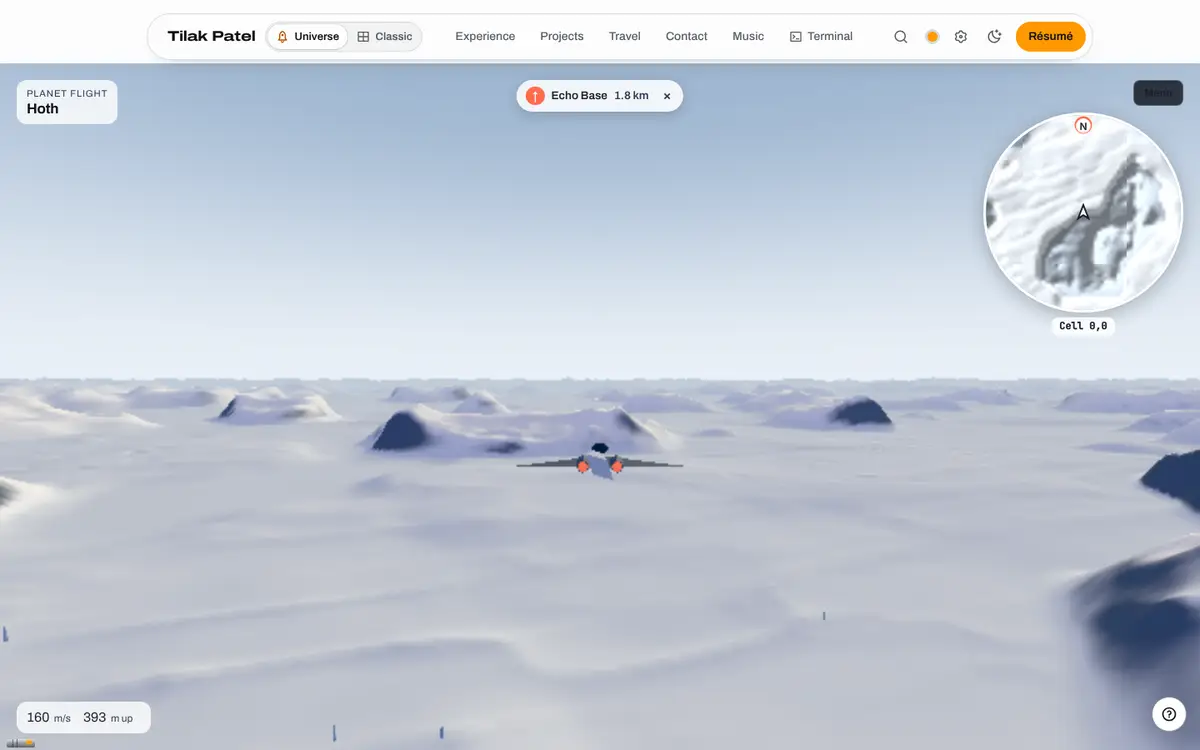
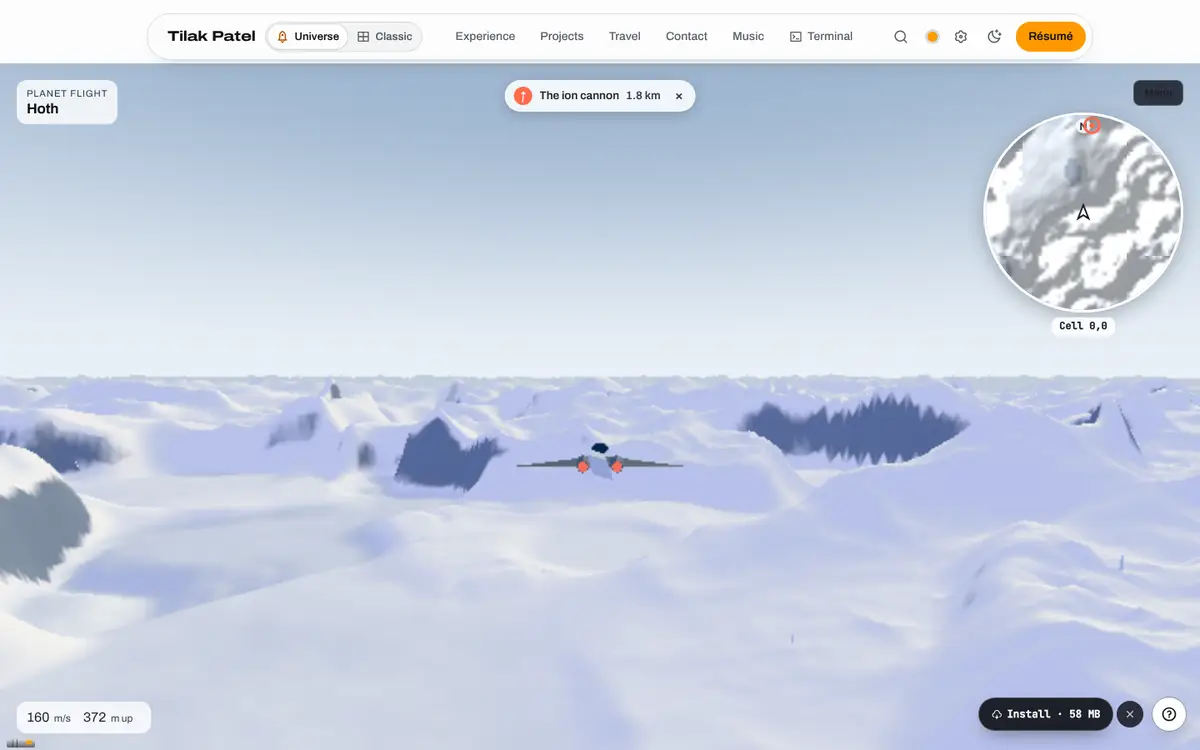
The map on the fifty-planet roster: water by the planet's own level, labels that never cover one another, the disc hidden until there's ground; Coruscant's screenshot
Claude-Session: https://claude.ai/code/session_01TJz65fkpCnqjBqG1pN19vZ

diff --git a/src/components/expanse/flight/mapRules.test.js b/src/components/expanse/flight/mapRules.test.js
@@ -1,5 +1,5 @@
 import { describe, expect, it } from 'vitest';
-import { FULL_SCALES, FULL_START, MAP_KEEP, isTap, panBy, pinchStep, zoomStep, MINI, MAP_CELL, bearingOf, biomeColour, cellAddress, compassPoint, markersOf, miniScale, poiRows, project, unproject, visibleLeaves } from './mapRules';
+import { FULL_SCALES, FULL_START, MAP_KEEP, isTap, panBy, pinchStep, placeLabels, zoomStep, MINI, MAP_CELL, bearingOf, biomeColour, cellAddress, compassPoint, markersOf, miniScale, poiRows, project, unproject, visibleLeaves } from './mapRules';
 import { planetSpecOf } from '../../../lib/land/flight/planetSpec';
 import { forwardOf } from './flightRules';
 
@@ -76,7 +76,8 @@ describe('biomeColour', () => {
   it('is a colour from the planet’s palette for every biome, darker under its base and lighter over it', () => {
     const lum = (h) => parseInt(h.slice(1, 3), 16) + parseInt(h.slice(3, 5), 16) + parseInt(h.slice(5, 7), 16);
     for (const id of ['hoth', 'tatooine', 'mustafar', 'kamino']) {
-      const s = planetSpecOf(id);
+      // (the land alone: a planet's water is the next test's)
+      const s = { ...planetSpecOf(id), water: null };
       s.biomes.forEach((b, i) => {
         const at = biomeColour(s, i, b.base);
         expect(at).toMatch(hex);
@@ -85,16 +86,24 @@ describe('biomeColour', () => {
       });
     }
   });
-  it('tells water from land: a sunken biome is bluer than the ground', () => {
-    const sea = spec.biomes.findIndex((b) => b.id === 'sea');
-    const c = biomeColour(spec, sea, spec.biomes[sea].base);
-    expect(parseInt(c.slice(5, 7), 16)).toBeGreaterThan(parseInt(c.slice(1, 3), 16));
+  it('paints a cell under the planet’s water as its water, deeper darker, and leaves the land above it alone', () => {
+    const kamino = planetSpecOf('kamino');
+    const dry = { ...kamino, water: null };
+    const sea = biomeColour(kamino, 0, kamino.water.level - 10);
+    expect(sea).not.toBe(biomeColour(dry, 0, kamino.water.level - 10));
+    expect(parseInt(sea.slice(5, 7), 16)).toBeGreaterThan(parseInt(sea.slice(1, 3), 16));
+    const lum = (h) => parseInt(h.slice(1, 3), 16) + parseInt(h.slice(3, 5), 16) + parseInt(h.slice(5, 7), 16);
+    expect(lum(biomeColour(kamino, 0, kamino.water.level - 60))).toBeLessThan(lum(sea));
+    expect(biomeColour(kamino, 0, kamino.water.level + 5)).toBe(biomeColour(dry, 0, kamino.water.level + 5));
   });
-  it('keeps a flat a few metres down land: Tatooine’s salt is not a sea', () => {
-    const t = planetSpecOf('tatooine');
-    const salt = t.biomes.findIndex((b) => b.id === 'salt');
-    const c = biomeColour(t, salt, t.biomes[salt].base);
-    expect(parseInt(c.slice(5, 7), 16)).toBeLessThan(parseInt(c.slice(1, 3), 16));
+  it('keeps a sunken biome on a dry planet land: Coruscant’s works and Hoth’s valley are no sea', () => {
+    for (const [id, biome] of [['coruscant', 'works'], ['hoth', 'valley']]) {
+      const s = planetSpecOf(id);
+      expect(s.water ?? null).toBeNull();
+      const i = s.biomes.findIndex((b) => b.id === biome);
+      expect(biomeColour(s, i, s.biomes[i].base)).toMatch(hex);
+      expect(biomeColour(s, i, s.biomes[i].base)).toBe(biomeColour({ ...s, water: { kind: 'clouds', level: 1e6 } }, i, s.biomes[i].base));
+    }
   });
 });
 
@@ -125,7 +134,8 @@ describe('markersOf', () => {
   const spec = planetSpecOf('hoth');
   it('draws the POIs and a waypoint, and no one else when nothing online is there', () => {
     const m = markersOf({ spec, waypoint: { id: 'echo-base', name: 'Echo Base', at: [1200, -800] } });
-    expect(m.filter((k) => k.kind === 'poi').map((k) => k.label)).toEqual(['Echo Base']);
+    expect(m.filter((k) => k.kind === 'poi').map((k) => k.label)).toEqual(spec.pois.map((p) => p.name));
+    expect(m.filter((k) => k.kind === 'poi').map((k) => k.label)).toContain('Echo Base');
     expect(m.find((k) => k.kind === 'waypoint')).toMatchObject({ at: [1200, -800], label: 'Echo Base' });
     expect(m.some((k) => ['pilot', 'built', 'occurrence'].includes(k.kind))).toBe(false);
   });
@@ -160,5 +170,19 @@ describe('the full map’s hands', () => {
   });
   it('pans by the drag, the ground following the finger', () => {
     expect(panBy([1000, -500], [10, -4], 16)).toEqual([840, -436]);
+  });
+});
+
+describe('placeLabels', () => {
+  const overlap = (a, b) => a.x < b.x + b.w && b.x < a.x + a.w && a.y < b.y + b.h && b.y < a.y + a.h;
+  it('keeps three places a few metres apart from covering one another’s names', () => {
+    const out = placeLabels([{ text: 'The ion cannon', x: 200, y: 200, w: 100 }, { text: 'Echo Base', x: 196, y: 196, w: 70 }, { text: 'The trench line', x: 204, y: 188, w: 100 }]);
+    expect(out).toHaveLength(3);
+    for (let i = 0; i < out.length; i++) for (let j = i + 1; j < out.length; j++) expect(overlap(out[i], out[j])).toBe(false);
+  });
+  it('puts a name on the other side when it would run off the map, and leaves it out when there is no room', () => {
+    const inside = (r) => r.x >= 0 && r.x + r.w <= 240 && r.y >= 0 && r.y + r.h <= 240;
+    expect(placeLabels([{ text: 'Far east', x: 220, y: 120, w: 80 }], inside)[0].x).toBe(130);
+    expect(placeLabels([{ text: 'Too long a name for any side', x: 120, y: 120, w: 400 }], inside)).toEqual([]);
   });
 });

diff --git a/src/components/expanse/flight/mapRules.js b/src/components/expanse/flight/mapRules.js
@@ -66,11 +66,8 @@ const toHex = (c) => `#${c.map((v) => Math.round(Math.min(255, Math.max(0, v))).
 const mix = (a, b, t) => a.map((v, i) => v + (b[i] - v) * t);
 
 // a biome's own colour, from the planet's palette: the first biome is the
-// low ground; one sunk deeper than WATER is water (a few metres down is a
-// flat: Tatooine's salt) (the low colour toward the sky's); the
-// others, by how high they sit, toward the high colour, then the rock, then
-// the accent, so neighbours read apart
-const WATER = -6; // m
+// low ground; the others, by how high they sit, toward the high colour, then
+// the rock, then the accent, so neighbours read apart
 const tints = new WeakMap();
 function tintsOf(spec) {
   let t = tints.get(spec);
@@ -78,19 +75,24 @@ function tintsOf(spec) {
   const p = spec.palette;
   const low = rgb(p.low);
   const toward = [p.high, p.rock, p.accent].map(rgb);
-  const land = spec.biomes.map((b, i) => [b.base ?? 0, i]).filter(([base, i]) => i > 0 && base >= WATER).sort((a, b) => a[0] - b[0]);
-  t = spec.biomes.map((b, i) => {
-    if (i === 0) return low;
-    if ((b.base ?? 0) < WATER) return mix(mix(low, rgb(p.skyHigh ?? p.accent), 0.55), [24, 48, 96], 0.2);
-    const k = land.findIndex(([, j]) => j === i);
-    return mix(low, toward[k % 3], 0.6);
-  });
+  const rest = spec.biomes.map((b, i) => [b.base ?? 0, i]).filter(([, i]) => i > 0).sort((a, b) => a[0] - b[0]);
+  t = spec.biomes.map((b, i) => (i === 0 ? low : mix(low, toward[rest.findIndex(([, j]) => j === i) % 3], 0.6)));
   tints.set(spec, t);
   return t;
 }
 
-// the biome's colour at a height: darker under its base, lighter over it
+// The planet's water as the map shows it, by kind (lane A's water.js draws
+// the sheet in 3D; a map reads lighter than a sheet under the sky, so these
+// are its own): a cell under the level is water whatever its biome, as the
+// sheet covers it; a kind the flight doesn't draw (Bespin's clouds) is none
+const WATER = { sea: '#3f7f9a', lake: '#4a7d8a', swamp: '#56603c', lava: '#e0521e' };
+
+// the colour of a cell: its biome's at its height, darker under the biome's
+// base and lighter over it; under the planet's water, the water's, darker
+// the deeper it is
 export function biomeRgb(spec, index, height) {
+  const w = spec.water;
+  if (w && WATER[w.kind] && height < w.level) return mix(mix(rgb(WATER[w.kind]), rgb(spec.palette.accent), 0.15), [0, 0, 0], Math.min(0.45, (w.level - height) / 120));
   const c = tintsOf(spec)[index] ?? tintsOf(spec)[0];
   const k = Math.max(-0.6, Math.min(0.6, (height - (spec.biomes[index]?.base ?? 0)) / 160));
   return k < 0 ? mix(c, [0, 0, 0], -k * 0.5) : mix(c, [255, 255, 255], k * 0.4);
@@ -145,3 +147,26 @@ export const zoomStep = (i, dir) => Math.max(0, Math.min(FULL_SCALES.length - 1,
 export const pinchStep = (from, to) => (to > from * 4 / 3 ? 1 : to < from * 3 / 4 ? -1 : 0);
 export const isTap = (a, b) => Math.hypot(b[0] - a[0], b[1] - a[1]) < 6;
 export const panBy = (centre, [dx, dy], scale) => [centre[0] - dx * scale, centre[1] - dy * scale];
+
+// Where each label goes beside its marker, so none covers another or runs
+// off the map: tried to the right, the left, below, then above; a label
+// with nowhere to go is left out (the list still names it). `items`:
+// [{ text, x, y, w }] (w the text's width with its padding), nearest the
+// ship first, so the labels that matter most get their place; `inside(rect)`
+// says whether a rect is on the map. → [{ text, x, y, w, h }] top left corners.
+export const LABEL_H = 20;
+export function placeLabels(items, inside = () => true) {
+  const placed = [];
+  const clear = (r) => placed.every((p) => r.x >= p.x + p.w + 2 || p.x >= r.x + r.w + 2 || r.y >= p.y + p.h + 2 || p.y >= r.y + r.h + 2);
+  for (const { text, x, y, w } of items) {
+    const tries = [[x + 10, y - LABEL_H / 2], [x - 10 - w, y - LABEL_H / 2], [x - w / 2, y + 10], [x - w / 2, y - 10 - LABEL_H]];
+    for (const [rx, ry] of tries) {
+      const r = { text, x: rx, y: ry, w, h: LABEL_H };
+      if (inside(r) && clear(r)) {
+        placed.push(r);
+        break;
+      }
+    }
+  }
+  return placed;
+}

diff --git a/src/components/expanse/flight/map.js b/src/components/expanse/flight/map.js
@@ -14,7 +14,7 @@
 import { MAP_DEPTH, MAP_N } from '../../../lib/land/flight/mapRaster';
 import { leafOf, sizeAt } from '../../../lib/land/flight/quadtree';
 import { WORKER } from './groundCore';
-import { MAP_CELL, MAP_KEEP, biomeRgb, cellAddress, miniScale, project, visibleLeaves } from './mapRules';
+import { LABEL_H, MAP_CELL, MAP_KEEP, biomeRgb, cellAddress, miniScale, placeLabels, project, visibleLeaves } from './mapRules';
 
 // behind the ground's leaves (their priority is their depth, 0 to 6), two at
 // a time, so the pool always has a worker for the ground
@@ -192,17 +192,19 @@ export function createMap({ spec, workers, makeCanvas = defaultCanvas }) {
     ctx.stroke();
   }
 
-  // a label on glass, upright, beside its marker
-  function label(ctx, text, x, y) {
-    if (!text) return;
+  // labels on glass, upright, beside their markers, none over another
+  // (mapRules' placeLabels); `marks` [[text, x, y]], the most wanted first
+  function labels(ctx, marks, inside) {
     ctx.font = FONT;
-    const w = ctx.measureText(text).width + 10;
-    ctx.fillStyle = GLASS;
-    ctx.beginPath();
-    ctx.roundRect(x + 10, y - 10, w, 20, 6);
-    ctx.fill();
-    ctx.fillStyle = INK;
-    ctx.fillText(text, x + 15, y + 4);
+    const items = marks.filter(([t]) => t).map(([text, x, y]) => ({ text, x, y, w: ctx.measureText(text).width + 10 }));
+    for (const r of placeLabels(items, inside)) {
+      ctx.fillStyle = GLASS;
+      ctx.beginPath();
+      ctx.roundRect(r.x, r.y, r.w, LABEL_H, 6);
+      ctx.fill();
+      ctx.fillStyle = INK;
+      ctx.fillText(r.text, r.x + 5, r.y + 14);
+    }
   }
 
   return {
@@ -240,17 +242,19 @@ export function createMap({ spec, workers, makeCanvas = defaultCanvas }) {
       ctx.fill();
       ctx.fillStyle = INK;
       ctx.fillText('N', r + nx - 4.5, r + ny + 4.5);
-      const labels = [];
+      const named = [];
       for (const m of markers) {
         let [x, y] = project(m.at, view);
         const d = Math.hypot(x, y);
         if (d > r - 10) {
           if (m.kind !== 'waypoint') continue;
           [x, y] = [(x / d) * (r - 12), (y / d) * (r - 12)];
-        } else if (m.kind === 'poi' || m.kind === 'waypoint') labels.push([m.label, r + x, r + y]);
+        } else if (m.kind === 'poi' || m.kind === 'waypoint') named.push([d, m.label, r + x, r + y]);
         mark(ctx, m, r + x, r + y);
       }
-      for (const [t, x, y] of labels) label(ctx, t, x, y);
+      // (nearest first; a label's corners all inside the disc)
+      const inDisc = (b) => [[b.x, b.y], [b.x + b.w, b.y], [b.x, b.y + b.h], [b.x + b.w, b.y + b.h]].every(([x, y]) => Math.hypot(x - r, y - r) < r - 2);
+      labels(ctx, named.sort((a, b) => a[0] - b[0]).map(([, ...rest]) => rest), inDisc);
       shipAt(ctx, r, r, headingUp ? 0 : ship.yaw);
       ctx.restore();
       return `Cell ${cellAddress(ship.x, ship.z)}`;
@@ -309,7 +313,10 @@ export function createMap({ spec, workers, makeCanvas = defaultCanvas }) {
         mark(ctx, m, x, y);
         shown.push([m, x, y]);
       }
-      for (const [m, x, y] of shown) if (m.kind !== 'waypoint' || !markers.some((o) => o.kind === 'poi' && o.id === m.id)) label(ctx, m.label, x, y);
+      // (the ship's surroundings named first; a waypoint on a place is named once)
+      const named = shown.filter(([m]) => m.kind !== 'waypoint' || !markers.some((o) => o.kind === 'poi' && o.id === m.id));
+      named.sort((a, b) => Math.hypot(a[1] - sx, a[2] - sy) - Math.hypot(b[1] - sx, b[2] - sy));
+      labels(ctx, named.map(([m, x, y]) => [m.label, x, y]), (b) => b.x >= 4 && b.y >= 4 && b.x + b.w <= w - 4 && b.y + b.h <= h - 4);
       shipAt(ctx, sx, sy, ship.yaw, 11);
     },
 

diff --git a/src/runtime/hud/MiniMap.jsx b/src/runtime/hud/MiniMap.jsx
@@ -8,12 +8,14 @@ import { MINIMAP } from './hud';
 // draws; the part keeps the clock: `draw(ctx, size)` is called at most `hz`
 // times a second from requestAnimationFrame, in CSS px on a canvas as sharp
 // as the screen, and what it returns is the caption, written into the
-// element, never into state (numbers through refs). `children` hang under
+// element, never into state (numbers through refs); null keeps the whole
+// part hidden (nothing to draw yet: the world still loading). `children` hang under
 // the caption (a waypoint's line on a narrow screen). The key that opens the
 // map is the guide's to say (src/components/guide/pages.js), not this.
 //
 //   <MiniMap size={minimapSize(width, touch)} draw={(ctx, size) => 'Cell 0,0'} onOpen={…} label="Open the map" />
 export default function MiniMap({ size = MINIMAP.size, draw, onOpen = null, hz = MINIMAP.hz, label = 'Open the map', className = '', children = null }) {
+  const root = useRef(null);
   const canvas = useRef(null);
   const caption = useRef(null);
   const drawRef = useRef(draw);
@@ -33,6 +35,9 @@ export default function MiniMap({ size = MINIMAP.size, draw, onOpen = null, hz =
       ctx.setTransform(box.s, 0, 0, box.s, 0, 0);
       ctx.clearRect(0, 0, box.w, box.h);
       const text = drawRef.current?.(ctx, box.w);
+      // (hidden, not gone: the canvas keeps its size, so the next frame can draw)
+      const empty = text === null ? 'true' : 'false';
+      if (root.current && root.current.dataset.empty !== empty) root.current.dataset.empty = empty;
       if (caption.current && typeof text === 'string' && caption.current.textContent !== text) caption.current.textContent = text;
     };
     raf = requestAnimationFrame(tick);
@@ -40,7 +45,7 @@ export default function MiniMap({ size = MINIMAP.size, draw, onOpen = null, hz =
   }, [hz]);
 
   return (
-    <div className={`hud-minimap ${className}`.trim()} style={{ '--hud-minimap': `${size}px` }}>
+    <div ref={root} className={`hud-minimap ${className}`.trim()} data-empty="true" style={{ '--hud-minimap': `${size}px` }}>
       <button type="button" className="hud-minimap-disc" onClick={onOpen ?? undefined} aria-label={label} title={label}>
         <canvas ref={canvas} aria-hidden="true" />
       </button>

diff --git a/src/runtime/hud/hud.css b/src/runtime/hud/hud.css
@@ -137,6 +137,7 @@
 :where(.hud-minimap-disc canvas):not(hud-none) { display: block; width: 100%; height: 100%; }
 :where(.hud-minimap-caption):not(hud-none) { margin: 0; padding: 0.2rem 0.55rem; border-radius: var(--hud-radius); background: var(--hud-glass); color: var(--hud-ink); font: 600 0.75rem/1.3 var(--hud-num-face); font-variant-numeric: tabular-nums; pointer-events: none; }
 :where(.hud-minimap-caption:empty):not(hud-none) { display: none; }
+:where(.hud-minimap[data-empty='true']):not(hud-none) { visibility: hidden; }
 
 /* the spacing, on the root: a world's HUD that isn't in the frame yet
    (its own rows, as the towns' still are) is spaced by the same numbers */

diff --git a/src/components/expanse/flight/map.test.js b/src/components/expanse/flight/map.test.js
@@ -148,7 +148,7 @@ describe('the full map', () => {
     const ctx = fakeCtx();
     const markers = [
       { kind: 'poi', id: 'echo-base', at: [1200, -800], label: 'Echo Base' },
-      { kind: 'pilot', id: 'p', at: [1300, -800], label: 'Rogue 2' },
+      { kind: 'pilot', id: 'p', at: [1000, -100], label: 'Rogue 2' },
       { kind: 'built', id: 'b', at: [900, -700], label: 'turret' },
     ];
     const view = { w: 800, h: 600, centre: [1000, -500], scale: 16 };

diff --git a/src/runtime/hud/parts.test.jsx b/src/runtime/hud/parts.test.jsx
@@ -96,6 +96,8 @@ describe('the minimap', () => {
       </MiniMap>,
     );
     expect(html).toContain('--hud-minimap:160px');
+    // (hidden until its first draw says there's something to show)
+    expect(html).toContain('data-empty="true"');
     expect(html).toMatch(/<button[^>]*aria-label="Open the map"/);
     expect(html).toContain('<canvas aria-hidden="true"></canvas>');
     expect(html).not.toContain('<kbd');

diff --git a/src/components/expanse/flight/FlightMap.jsx b/src/components/expanse/flight/FlightMap.jsx
@@ -30,7 +30,7 @@ export default function FlightMap({ spec, source, touch = false }) {
   const draw = useCallback(
     (ctx, size) => {
       const w = source();
-      if (!w?.map) return '';
+      if (!w?.map) return null;
       const ship = w.ship;
       if (way.current && arrow.current && dist.current) {
         const b = bearingOf(ship, way.current.at);
